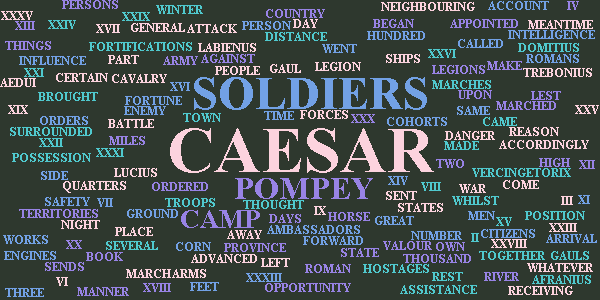
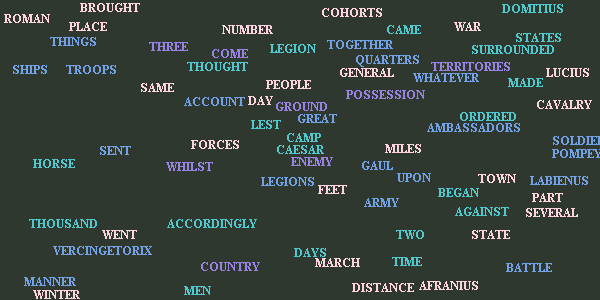
+fixed WCG, allows ay number words input

Changed region(s): [[0.0, 0.0, 1.0, 1.0], [0.0, 0.3, 0.18, 0.39]]

diff --git a/Word.java b/Word.java
@@ -23,13 +23,12 @@ public class Word{
     private String word;
     private int count;
     private float weight;
-    static float highWordCount = 0;  //set by constructor - used to assign weight
+    private static float highWordCount = 0;  //set by constructor - used to assign weight
     private static int factor = 5;
     private Font font;
     private int fontWidth;
     private int fontHeight;
     Point startingPoint;
-    //private static String fontType = "Times Roman";
     private static String fontType = "Serif";
 
     public Word(String word, int wordCount){
@@ -39,8 +38,7 @@ public class Word{
         //Word construction must be changed to allow for each word to be creates as a Word with unnecessary work left until later
         //font/weight only required for inputed word count amount
         highWordCount = wordCount > highWordCount? wordCount: highWordCount;
-        calculateValue(wordCount);
-        createFont();
+        this.calculateValue();      //cannot move this from here, unsure why errors occur
     }//constructor
 
     //===== Setters/Getters[START] =====//
@@ -93,11 +91,15 @@ public class Word{
         if words are not ordered as they are created, this would need be called on each word after all are created
         Unnecessary due to how they are created in this program.
     */
-    public void calculateValue(int wordCount){
-        this.setWeight((wordCount / highWordCount) * (factor / 1));
-        if (this.getWeight() < factor){// - 0.5) { //seems to be a decent place to split it, can be changed.  Looks reasonable for {20, 100, 1000} words
-            this.setWeight(--factor);
+    public void calculateValue(){
+        this.setWeight((this.count / highWordCount) * (factor / 1));
+        if (this.getWeight() < factor - 0.5) { //seems to be a decent place to split it, can be changed.  Looks reasonable for {20, 100, 1000} words
+           if (factor > 0){ 
+                this.setWeight(--factor);
+                Word.highWordCount = this.count;
+            }
         }
+        //System.out.println("Weight: " + this.weight);
     }//calculateValue();
     public Font getFont(){
         return this.font;
@@ -106,8 +108,8 @@ public class Word{
     /*
         Creates a Font for each word based on word.weight
     */
-    private void createFont(){
-        int weight = (int)this.weight;
+    public void createFont(){
+        int weight = (int)Math.ceil(this.weight);
 
         switch (weight){
             case 5:

diff --git a/WordCloudCreator.java b/WordCloudCreator.java
@@ -52,6 +52,8 @@ public class WordCloudCreator {
         graphics.fillRect(-1, -1, sizeX+1, sizeY+1);
 
         for (int i = 0; i < words.length; i++){
+            words[i].createFont();
+            
             graphics.setColor(colors[rnd.nextInt(4)]);
             graphics.setFont(words[i].getFont());
             words[i].setFontMetrics(graphics.getFontMetrics());
@@ -59,10 +61,15 @@ public class WordCloudCreator {
             //test collision
             boolean collision = false;
             int fillCheck = 0;
+            boolean exit = false;
+            int exitCheck = 0;
 
             do{
-                if ((this.firstFill)&&(fillCheck >= 50)){this.secondFill = true; } //fillCheck = 0; }
-                if (fillCheck >= 50){ this.firstFill = true; fillCheck = 0;}
+                if(exit == true){ break; }
+                else if(exitCheck > words.length * 5){ exit = true; }
+                else if(this.secondFill == true){ exitCheck++;}
+                else if ((this.firstFill)&&(fillCheck >= 50)){this.secondFill = true; } //fillCheck = 0; }
+                else if (fillCheck >= 50){ this.firstFill = true; fillCheck = 0;}
                 words[i].startingPoint = setLocation(words[i], words[0]);
                 collision = false;
 
@@ -79,6 +86,8 @@ public class WordCloudCreator {
                     }
                 }
             } while (collision);
+
+            if(exit == true){ break; }//ensures program will run if words.length is too large
 
             graphics.drawString(words[i].getWord(), (int)words[i].startingPoint.getX(), (int)words[i].startingPoint.getY());//to be changed
             Word.setFactor(5);

diff --git a/WCGmenu.java b/WCGmenu.java
@@ -68,7 +68,7 @@ public class WCGmenu{
         //this.setFileIn("PoblachtNaHEireann.txt");
         //this.setFileIn("https://www.thejournal.ie/two-arrested-finglas-drugs-samurai-swords-4524379-Mar2019/");
         System.out.println("Enter MAXWORDS");
-        this.setMaxWords(150);
+        this.setMaxWords(200);
         System.out.println("Enter SAVEAS");
         this.setFileOut("WordCloudImg");
     }//displayMenu()
